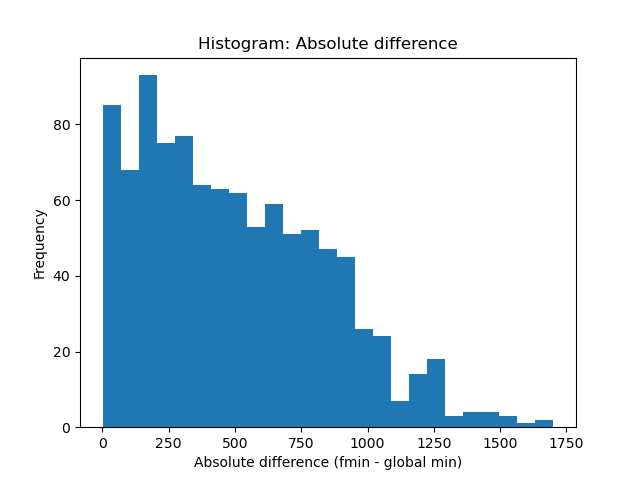
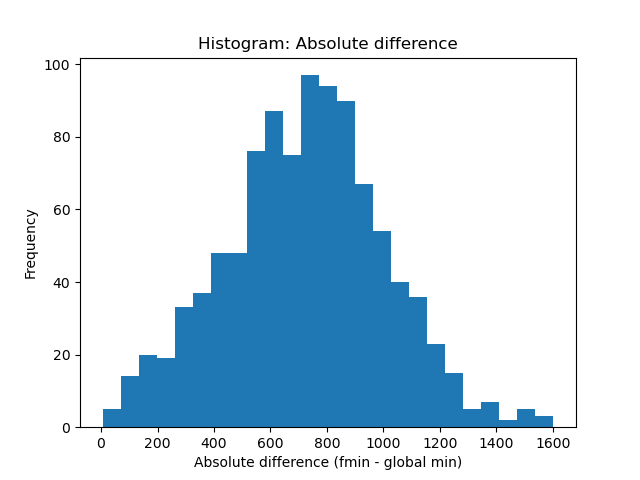
Wednesday 03.02.2022

diff --git a/eggholder.py b/eggholder.py
@@ -21,16 +21,16 @@ def eggholder(x, y):
 
 
 def minimize_eggholder(guess, max_calls=100):
+    """
+    :param guess: scalar x, y array of any length and uses these to initialize an optimization function
+    :param max_calls: Maximum number of calls for optimization function
+    :return: settled on value of optimization function of same length as guess
+    """
     # function to optimize
     egg = lambda xy: eggholder(xy[0], xy[1])
-    out = []
-    for g, my_xy in enumerate(guess):
-        # optimize function with vaious guesses given by input
-        mini = optimize.fmin(func=egg, x0=my_xy, maxfun=max_calls, full_output=True)
-        # save results
-        out.append((tuple(mini[0]), mini[1]))
-    # return 2 values... ((x, y), function_value)
-    return np.array(out, dtype=object)
+    mini = optimize.fmin(func=egg, x0=guess, maxfun=max_calls, full_output=True)
+    # save results
+    return mini[0], mini[1]
 
 
 if __name__ == '__main__':
@@ -39,7 +39,7 @@ if __name__ == '__main__':
     # fmin
     my_test = minimize_eggholder(guess)
     # function values from optimized function
-    f_min = my_test[:, 1]
+    f_min = my_test[1]
 
     # gmin
     g_min = [None] * len(guess)

diff --git a/inertia.py b/inertia.py
@@ -83,9 +83,9 @@ def test_inertia_matrices_output():
     print('Gaussian: ')
     print(gauss)
     """ Expected Inertia matrix"""
-    expected = np.array([[(7/5 * m * r ** 2), 0, 0],
-                         [0, (7/5 * m * r ** 2), 0],
-                         [0, 0, (7/5 * m * r ** 2)]])
+    expected = np.array([[(2/3 * m * r ** 2), 0, 0],
+                         [0, (2/3 * m * r ** 2), 0],
+                         [0, 0, (2/3 * m * r ** 2)]])
     print('Expected: ')
     print(expected)
     return
